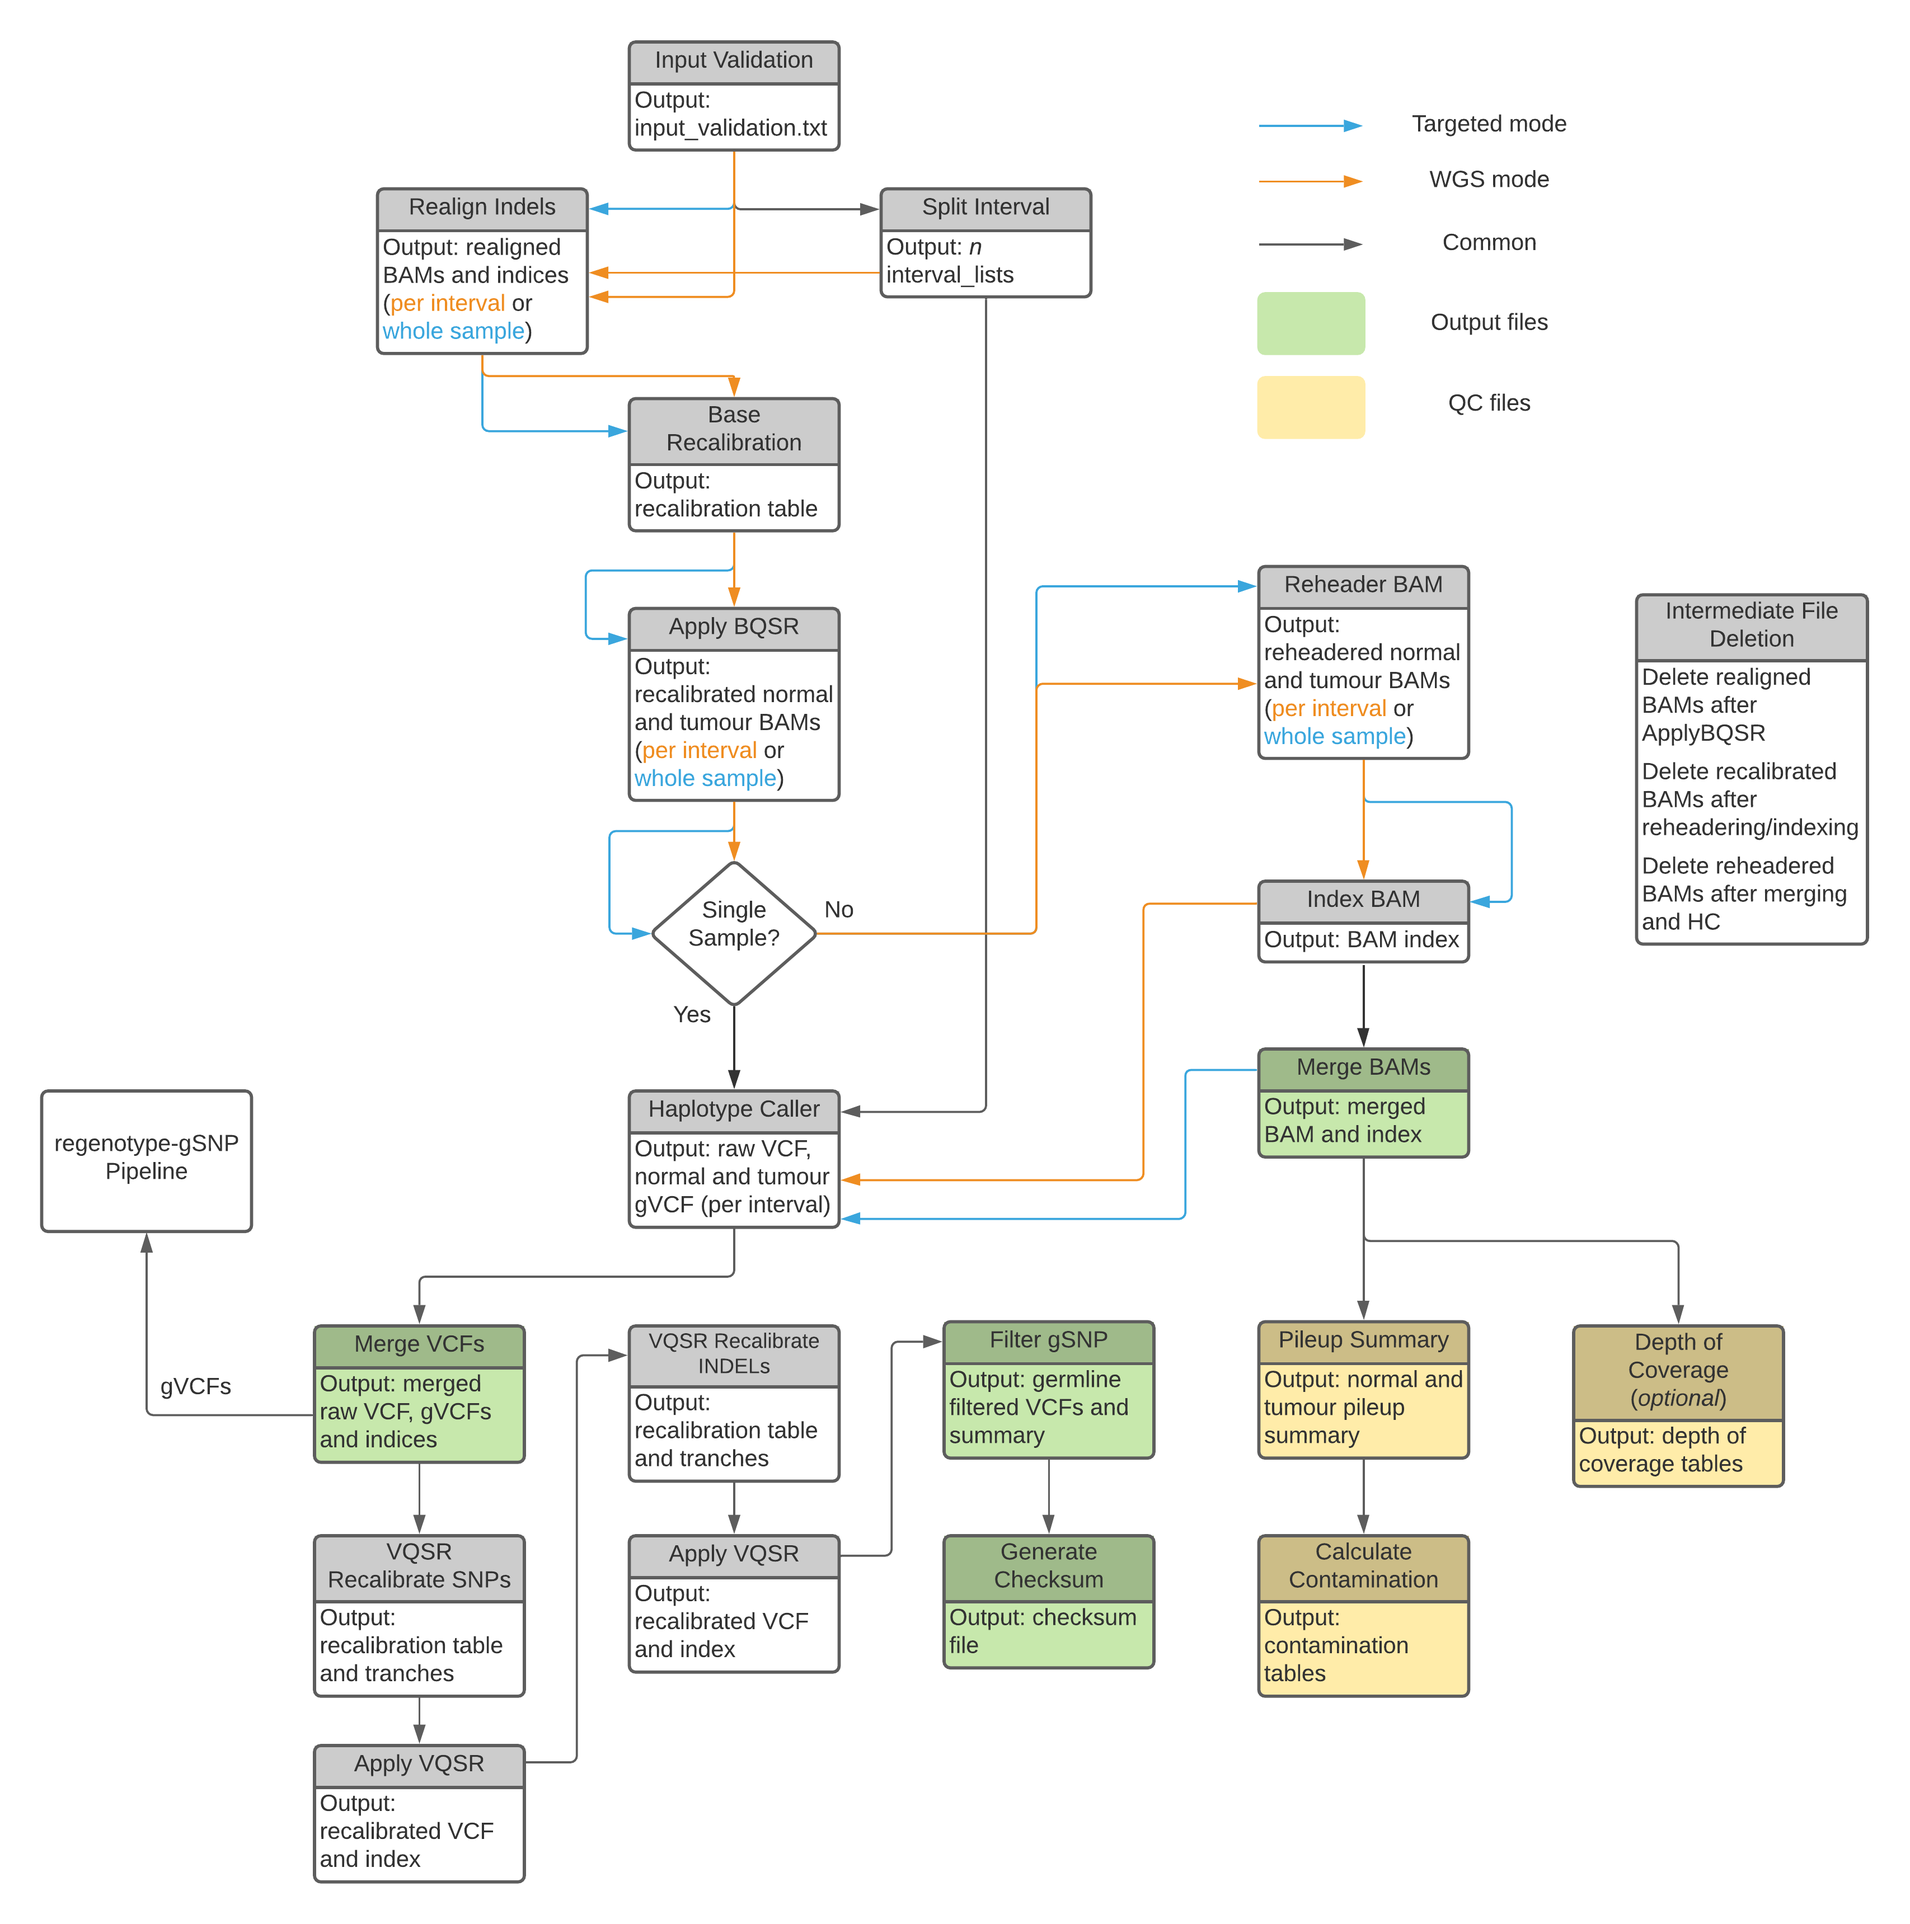
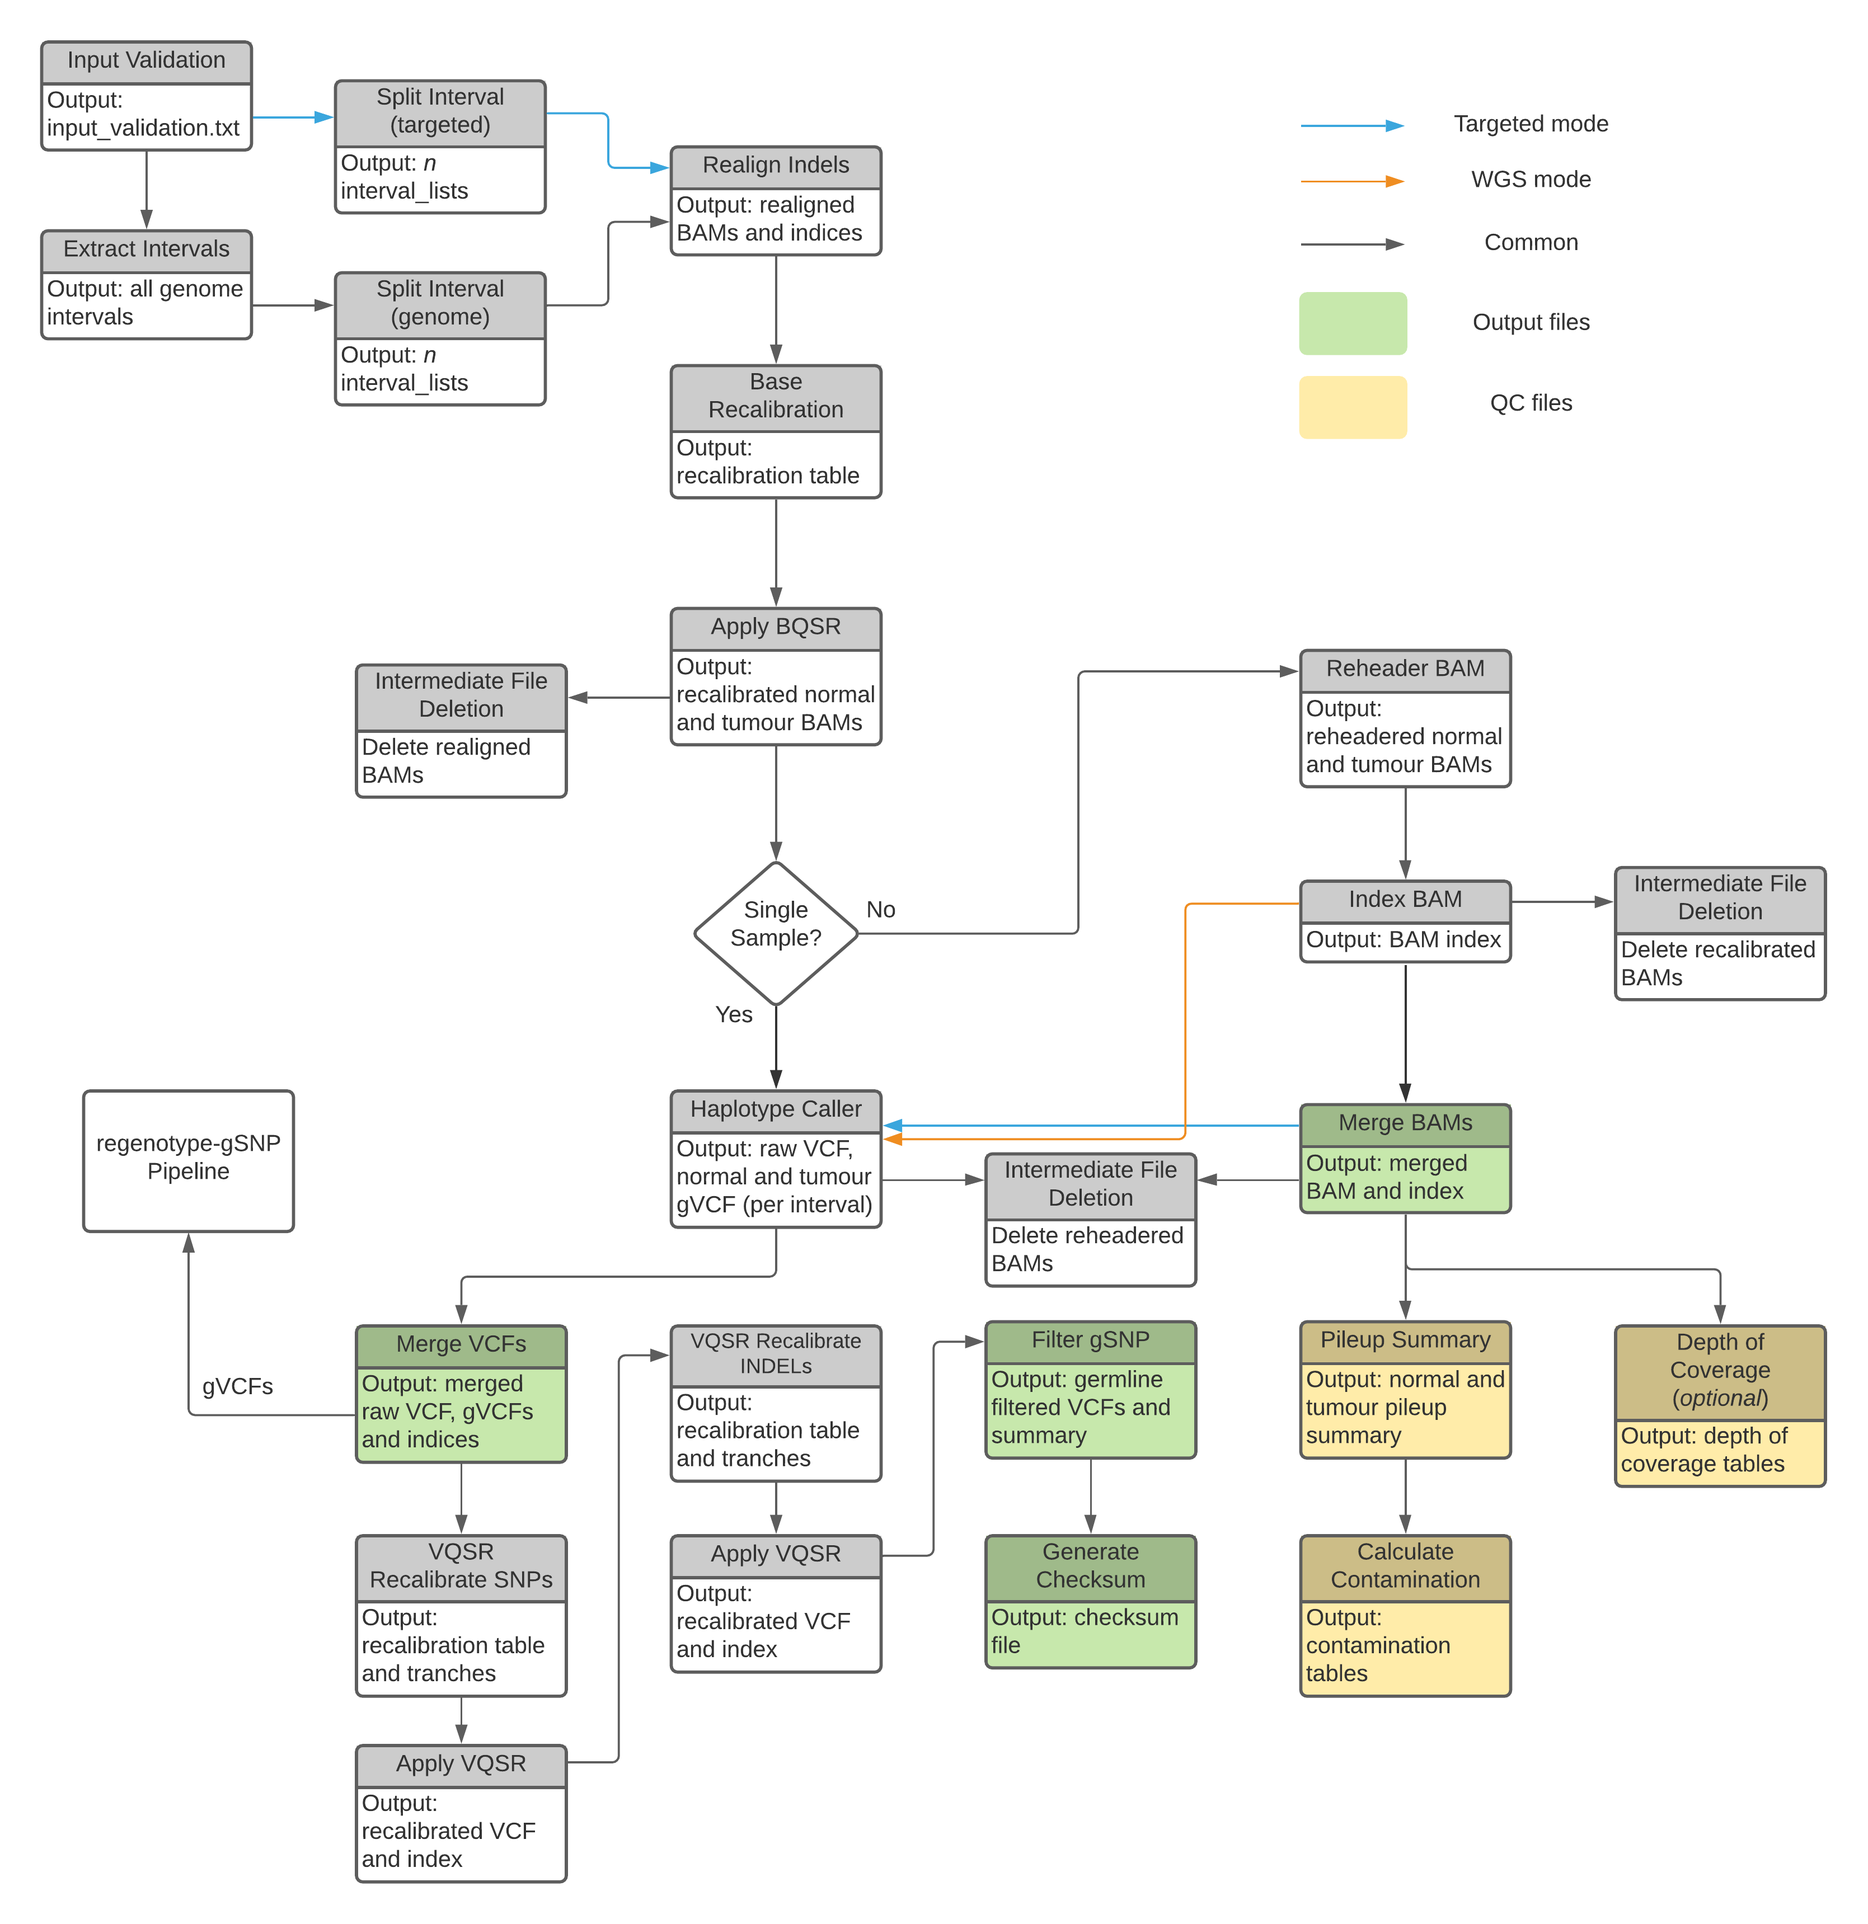
Parallelize IR and BQSR in exome mode (#38)
* Parallelize IR and BQSR in exome mode

* Parallelize the IR and BQSR processes in exome mode

* Parallelize IR and BQSR in exome mode

* Remove commented code

* Remove unused code in modules

* Add option to not subdivide intervals in targeted mode

* Fix processing of targeted single sample

* Update diagram to reflect paralelization

* Fix reheadered bam deletion

* Bump version to 7.1.0 for release

* Update changelog

diff --git a/CHANGELOG.md b/CHANGELOG.md
@@ -8,9 +8,17 @@ This project adheres to [Semantic Versioning](https://semver.org/spec/v2.0.0.htm
 ---
 
 ## [Unreleased]
-### Added
 
-### Changed
+---
+
+## [7.1.0] - 2021-11-09
+### Added
+- Parallelize IR and BQSR in WXS/WES mode
+
+### Fixed
+- Fix targeted, single sample mode bugs
+
+---
 
 ## [7.0.0] - 2021-10-27
 ### Added
